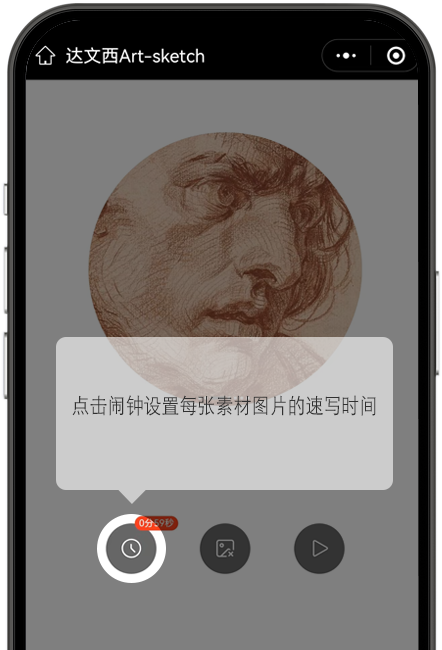
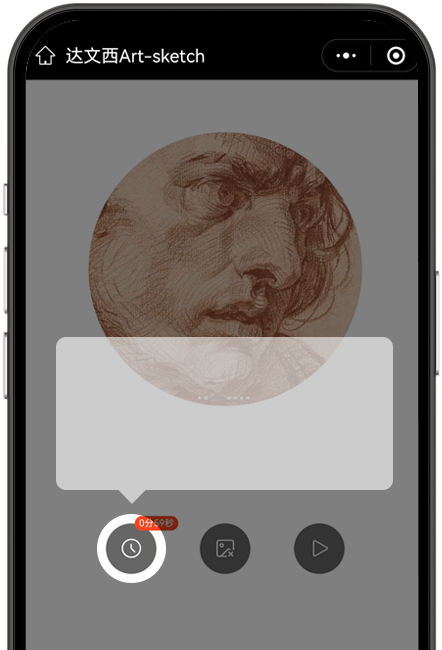
update

Changed region(s): [[0.1471, 0.6154, 0.8529, 0.6462]]

diff --git a/src/pages/home/Home.tsx b/src/pages/home/Home.tsx
@@ -1,4 +1,4 @@
-import React, { useCallback, useRef, useState } from "react";
+import React, { useCallback, useRef, useState, useEffect } from "react";
 import useDocumentTitle from "../../hooks/useDocumentTitle";
 import { useNavigate } from "react-router-dom";
 import { Button, Space, Swiper, Image, Badge, Dialog, List, Toast, Tag, Popover, ImageUploader, ImageUploadItem, Form } from "antd-mobile";
@@ -34,6 +34,8 @@ import useAddWeChat from "~/hooks/useAddWeChat";
 import { Action } from "antd-mobile/es/components/popover";
 import { ImageItem } from "../list/List";
 import { IconMD } from "~/compontents/IconMD";
+import { CloudKeys, cloudFunction } from "~/core/cloud";
+import loading from "~/compontents/Loading";
 
 dayjs.extend(duration);
 
@@ -84,7 +86,7 @@ const Home: React.FC<Props> = ({ name = "达文西Art-sketch" }) => {
             checkAuth();
             return;
         }
-
+        const days = dayjs(userR.serialCode?.end_at).diff(dayjs(), "day");
         Dialog.show({
             content: (
                 <>
@@ -104,7 +106,7 @@ const Home: React.FC<Props> = ({ name = "达文西Art-sketch" }) => {
                                     {license}
                                     {
                                         <div className={s.times}>
-                                            有效期至：<div>{dayjs(end_at).format("YYYY-MM-DD HH:mm:ss")}</div>
+                                            有效期至：<div>{dayjs(end_at).format("YYYY-MM-DD HH:mm:ss")}{days <= 0 ? <span style={{color: "red"}}>【过期】</span> : null}</div>
                                         </div>
                                     }
                                     <div>关联应用：
@@ -293,6 +295,35 @@ const Home: React.FC<Props> = ({ name = "达文西Art-sketch" }) => {
         [userR.auth, userR.member_id, userR.token],
       );
 
+    
+  const { complete_learning = [] } = userR.info || {};
+  useEffect(() => {
+    console.log(userR);
+    
+    if (userR.info && !complete_learning?.includes(2)) {
+      setVhelp(true)
+    }
+  }, [complete_learning, userR.info, userR])
+
+  const onLearning = useCallback(
+    async () => {
+      if (!complete_learning.includes(2)) {
+        loading.show();
+        const { code, data, msg } = await cloudFunction(CloudKeys.更新会员, {
+          complete_learning: [...complete_learning, 2],
+          member_id: userR.member_id
+        })
+        if (code === 200) {
+          user.info = data;
+        } else {
+          console.error(msg || "创建学习记录失败");
+        }
+        loading.hide()
+      }
+      setVhelp(false);
+    },
+    [complete_learning, userR.member_id],
+  )
 
 
     return (
@@ -399,7 +430,7 @@ const Home: React.FC<Props> = ({ name = "达文西Art-sketch" }) => {
 
                 </footer>
             </Space>
-            <HelpPopup visible={vhelp} onEnded={() => setVhelp(false)} />
+            <HelpPopup visible={vhelp} onEnded={onLearning} />
         </>
     );
 };

diff --git a/src/compontents/HelpPopup/HelpPopup.tsx b/src/compontents/HelpPopup/HelpPopup.tsx
@@ -11,13 +11,17 @@ const HelpPopup: React.FC<Props> = ({ onEnded, ...props }) => {
   const ref = useRef<SwiperRef>(null)
   return (
     <Popup position="bottom" destroyOnClose {...props} className={s.root}>
-      <Swiper loop={false}>
-      <Swiper.Item>
+      <Swiper loop={false} ref={ref}>
+        <Swiper.Item>
           <div className={s.item}>
             <Space className={s.main} block direction="vertical" align="center">
-              <h3>1、设置时间</h3>
-              <div className={s.st1} />
-              <Button className={s.btn} onClick={() => ref.current?.swipeNext()}>下一步</Button>
+              <h3><p>使用说明</p>1、设置时间</h3>
+              <div className={s.st1} >
+                <div className={s.msg}>
+                  点击闹钟设置每张素材图片的速写时间
+                </div>
+              </div>
+              <Button className={s.btn} onClick={() => ref.current?.swipeNext()}>知道了</Button>
               <Button fill="none" color="primary" onClick={() => onEnded?.()}>跳过</Button>
             </Space>
           </div>
@@ -25,9 +29,13 @@ const HelpPopup: React.FC<Props> = ({ onEnded, ...props }) => {
         <Swiper.Item>
           <div className={s.item}>
             <Space className={s.main} block direction="vertical" align="center">
-              <h3>2、选择素材</h3>
-              <div className={s.st2} />
-              <Button className={s.btn} onClick={() => ref.current?.swipeNext()}>下一步</Button>
+              <h3><p>使用说明</p>2、选择素材</h3>
+              <div className={s.st2} >
+                <div className={s.msg}>
+                  点击选择即将速写的图片素材；可以选择sketch的图库素材，也可以放心使用手机相册图片，手机相册图片仅在本人手机预览，绝不会上传到服务器。
+                </div>
+              </div>
+              <Button className={s.btn} onClick={() => ref.current?.swipeNext()}>知道了</Button>
               <Button fill="none" color="primary" onClick={() => onEnded?.()}>跳过</Button>
             </Space>
           </div>
@@ -35,8 +43,14 @@ const HelpPopup: React.FC<Props> = ({ onEnded, ...props }) => {
         <Swiper.Item>
           <div className={s.item}>
             <Space className={s.main} block direction="vertical" align="center">
-              <h3>3、开始</h3>
-              <div className={s.st3} />
+              <h3><p>使用说明</p>3、开始</h3>
+              <div className={s.st3} >
+                <div className={s.msg}>
+                  点击开始应用，您将进入到第一张素材
+                  的速写倒计时。倒计时结束后，系统将
+                  自动切换到下一张素材，并重新开始计时。
+                </div>
+              </div>
               <Button className={classNames(s.btn, s.startbtn)} onClick={() => onEnded?.()}>开始使用</Button>
             </Space>
           </div>

diff --git a/src/compontents/HelpPopup/HelpPopup.module.scss b/src/compontents/HelpPopup/HelpPopup.module.scss
@@ -6,6 +6,11 @@
   align-items: center;
   font-size: 48px;
   user-select: none;
+  > div {
+    position: relative;
+    width: 442*0.7Px;
+    margin: 0 auto;
+  }
 }
 
 .main {
@@ -14,6 +19,13 @@
   text-align: center;
   h3 {
     text-align: center;
+    font-size: var(--adm-font-size-10);
+  }
+  p {
+    padding: 0;
+    margin: 0;
+    font-size: var(--adm-font-size-6);
+    color: var(--adm-color-text-secondary);
   }
 }
 
@@ -53,8 +65,8 @@
 
 .st1 {
   display: block;
-  width: 442*0.8Px;
-  height: 650*0.8Px;
+  width: 442*0.7Px;
+  height: 650*0.7Px;
   background-image: url(./1.png);
   background-size: 100% 100%;
   border-radius: 20px;
@@ -62,8 +74,8 @@
 
 .st2{
   display: block;
-  width: 442*0.8Px;
-  height: 650*0.8Px;
+  width: 442*0.7Px;
+  height: 650*0.7Px;
   background-image: url(./2.png);
   background-size: 100% 100%;
   border-radius: 20px;
@@ -71,9 +83,18 @@
 
 .st3{
   display: block;
-  width: 442*0.8Px;
-  height: 650*0.8Px;
+  width: 442*0.7Px;
+  height: 650*0.7Px;
   background-image: url(./3.png);
+  background-size: 100% 100%;
+  border-radius: 20px;
+}
+
+.st4{
+  display: block;
+  width: 442*0.7Px;
+  height: 650*0.7Px;
+  background-image: url(./4.png);
   background-size: 100% 100%;
   border-radius: 20px;
 }
@@ -95,4 +116,24 @@
   border-color: var(--adm-color-success);
   background-color: var(--adm-color-success);
   color: #fff;
+}
+
+.msg {
+  position: absolute;
+  top: 328Px;
+  left: 37Px;
+  width: 238Px;
+  height: 100Px;
+  display: flex;
+  align-items: center;
+  box-sizing: border-box;
+  padding: 10Px;
+  margin: 0 auto;
+  font-size: var(--adm-font-size-7);
+  color: var(--adm-color-text);
+  text-align: left;
+}
+
+.msgb{
+  top: 230Px;
 }

diff --git a/src/store.ts b/src/store.ts
@@ -105,6 +105,7 @@ export interface UserInfo {
   created_at?: number;
   update_at?: number;
   login_at?: number;
+  complete_learning?: (1|2)[];
 }
 
 type Tasks = {
@@ -242,6 +243,8 @@ export const updateSN = (data: SerialCode) => {
   const days = dayjs(user.serialCode?.end_at).diff(dayjs(), "day");
   if (days >= 0) {
     user.auth = true;
+  } else {
+    user.auth = false;
   }
 };
 

diff --git a/src/pages/view/View.module.scss b/src/pages/view/View.module.scss
@@ -34,10 +34,10 @@
 }
 
 .timewran {
-  right: calc(50% - 35px);
-  top: calc(50% - 35px);
+  right: calc(50% - 35Px);
+  top: calc(50% - 35Px);
   transform: scale(3);
-  border-radius: 70px;
+  border-radius: 70Px;
   background-color: rgba(255, 255, 255, 0.7);
   box-shadow: 0px 0px 10px #0000006f;
 }
